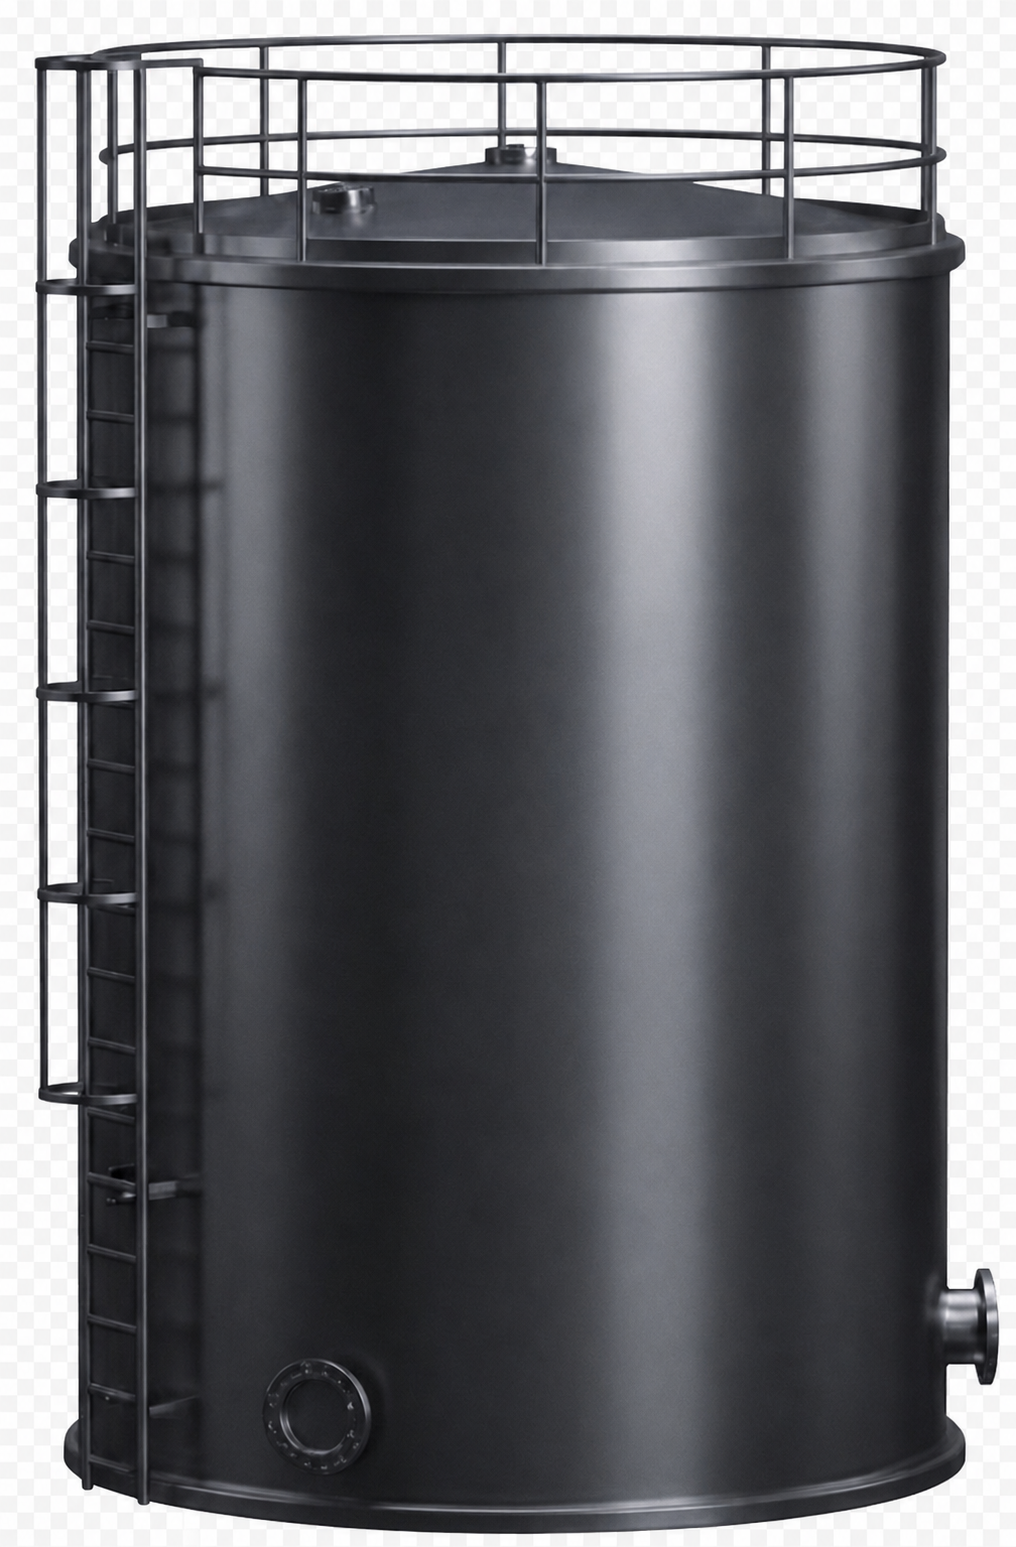
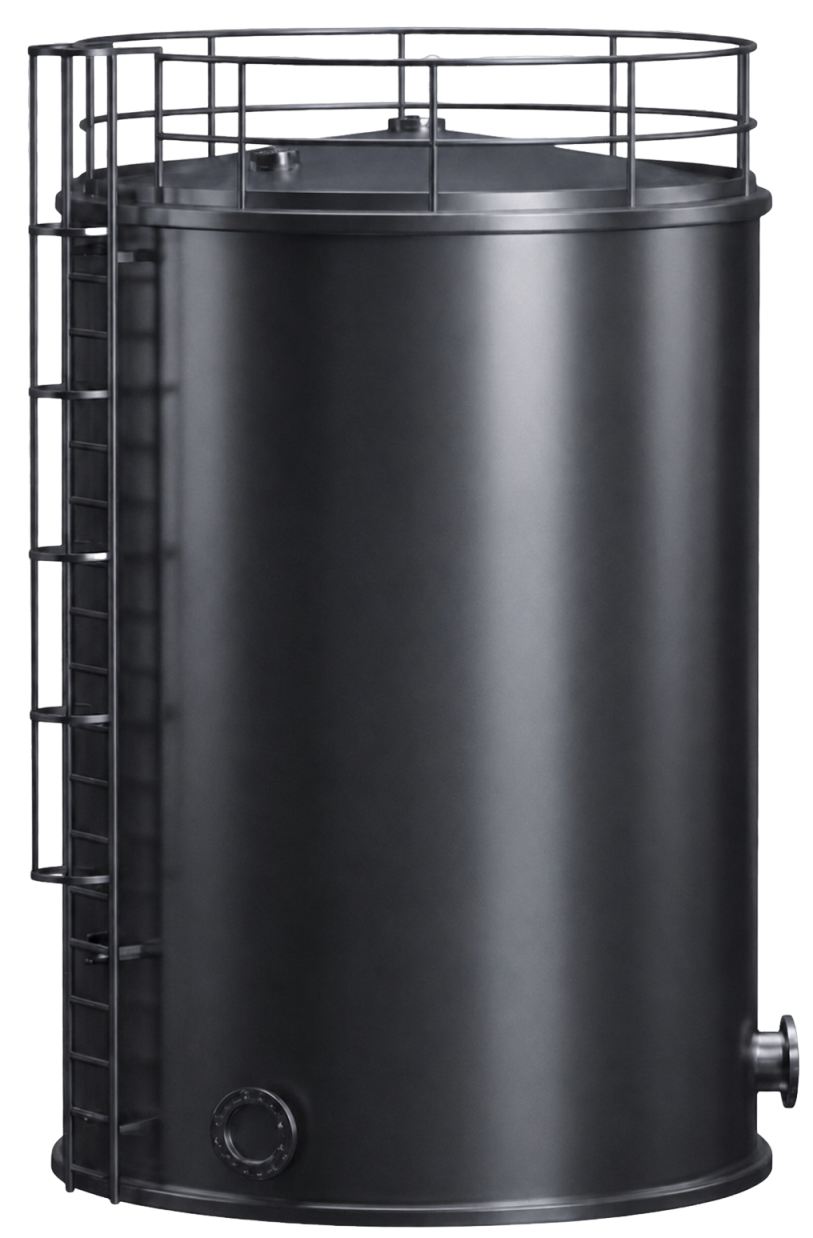
feat(abastecimento): novo render de face limpa (fundo removido + flange protegido) — display montado na face, rótulos HTML re-adicionados, barra e duto recalibrados

Changed region(s): [[0.0923, 0.1842, 0.123, 0.2149]]

diff --git a/src/components/abastecimento/PostoInterno.tsx b/src/components/abastecimento/PostoInterno.tsx
@@ -135,10 +135,10 @@ export function PostoInterno({ dados, presentation = false }: { dados: PostoInte
         <div className="flex flex-col lg:flex-row items-center lg:items-end justify-center gap-12 lg:gap-16 py-10">
 
           {/* ═════════ TANQUE DE ARMAZENAMENTO — render 3D (imagem) ═══════════
-              A carcaça é uma imagem PNG (match 1:1 da referência). Sobre ela fica
-              apenas o display dinâmico (dados ao vivo do DW). Os rótulos e o
-              display "100%" já vêm desenhados na imagem; o overlay cobre o display
-              para manter os números reais. Ajuste left/top/w do overlay p/ alinhar. */}
+              A carcaça é uma imagem PNG de face LIMPA (sem display/rótulos). O
+              painel abaixo é o próprio display (dados ao vivo do DW), montado
+              centralizado na face. Rótulos em HTML logo abaixo da imagem.
+              Ajuste left/top/w do display e left/top/bottom da barra p/ alinhar. */}
           <div className="flex flex-col items-center">
             <div className="relative w-[380px] select-none">
               <img
@@ -148,10 +148,8 @@ export function PostoInterno({ dados, presentation = false }: { dados: PostoInte
                 draggable={false}
               />
 
-              {/* Display dinâmico sobreposto ao display embutido da imagem.
-                  Posição medida na imagem (centro x≈50.5%, y≈50.5%; conteúdo
-                  ocupa ~40%→61% da altura). bg opaco cobre o "100%" desenhado. */}
-              <div className="absolute left-[49%] top-[30%] bottom-[34%] z-10 flex w-[46%] -translate-x-1/2 flex-col items-center justify-center rounded-[14px] bg-[rgba(6,10,16,0.98)] px-2 text-center shadow-[inset_0_2px_16px_rgba(0,0,0,0.9)]">
+              {/* Display dinâmico — painel montado na face limpa do tanque */}
+              <div className="absolute left-[48%] top-[43%] z-10 flex w-[46%] -translate-x-1/2 -translate-y-1/2 flex-col items-center justify-center rounded-[14px] border border-white/10 bg-[rgba(6,10,16,0.96)] px-3 py-4 text-center shadow-[0_10px_30px_rgba(0,0,0,0.6),inset_0_2px_16px_rgba(0,0,0,0.9)]">
                 <div className="font-mono text-[46px] font-black leading-none tabular-nums tracking-[-0.03em] text-slate-100 [text-shadow:0_0_18px_rgba(255,255,255,0.22)]">
                   {pct.toFixed(0)}%
                 </div>
@@ -168,13 +166,19 @@ export function PostoInterno({ dados, presentation = false }: { dados: PostoInte
 
               {/* ── Medidor de nível (sight glass) — preenchimento âmbar até pct% ──
                   Posição estimada na face direita do corpo; ajuste left/top/bottom. */}
-              <div className="absolute left-[83%] top-[34%] bottom-[22%] z-10 w-[11px] -translate-x-1/2 overflow-hidden rounded-full border border-white/20 bg-[rgba(2,4,8,0.6)] shadow-[inset_0_2px_4px_rgba(0,0,0,0.85),0_1px_0_rgba(255,255,255,0.1)]">
+              <div className="absolute left-[85%] top-[24%] bottom-[40%] z-10 w-[11px] -translate-x-1/2 overflow-hidden rounded-full border border-white/20 bg-[rgba(2,4,8,0.6)] shadow-[inset_0_2px_4px_rgba(0,0,0,0.85),0_1px_0_rgba(255,255,255,0.1)]">
                 <div
                   className="absolute inset-x-0 bottom-0 rounded-full bg-[linear-gradient(180deg,#fde047,#f59e0b_55%,#b45309)] shadow-[0_0_10px_rgba(251,191,36,0.7)] transition-[height] duration-700 ease-out"
                   style={{ height: `${pct}%` }}
                 />
                 <div className="pointer-events-none absolute inset-y-0 left-[1.5px] w-[2px] rounded-full bg-white/25" />
               </div>
+            </div>
+
+            {/* Identificação — a imagem nova tem face limpa, sem rótulos */}
+            <div className="mt-3 text-center">
+              <p className="text-[11px] font-bold uppercase tracking-[0.26em] text-slate-400">Tanque de Armazenamento</p>
+              <p className="mt-1 text-[12px] font-semibold text-amber-400/70">{TANQUE_CONFIG.combustivel}</p>
             </div>
           </div>
 
@@ -183,7 +187,7 @@ export function PostoInterno({ dados, presentation = false }: { dados: PostoInte
               mostrando o diesel dourado fluindo. Container estreito (w-[180px])
               + `-mx-16` (cancela o gap do flex) mantêm tanque e bomba próximos
               e o duto encaixado entre eles. Ajuste w-* / pb-* para reposicionar. */}
-          <div className="relative z-0 -mx-16 hidden w-[180px] lg:flex flex-col items-center justify-end pb-[22px]">
+          <div className="relative z-0 -mx-16 hidden w-[180px] lg:flex flex-col items-center justify-end pb-[42px]">
             <div className="relative h-[140px] w-full">
               {/* rótulo flutuante acima do duto */}
               <span className="absolute inset-x-0 top-[30px] text-center text-[9px] font-bold uppercase tracking-[0.34em] text-slate-600">
